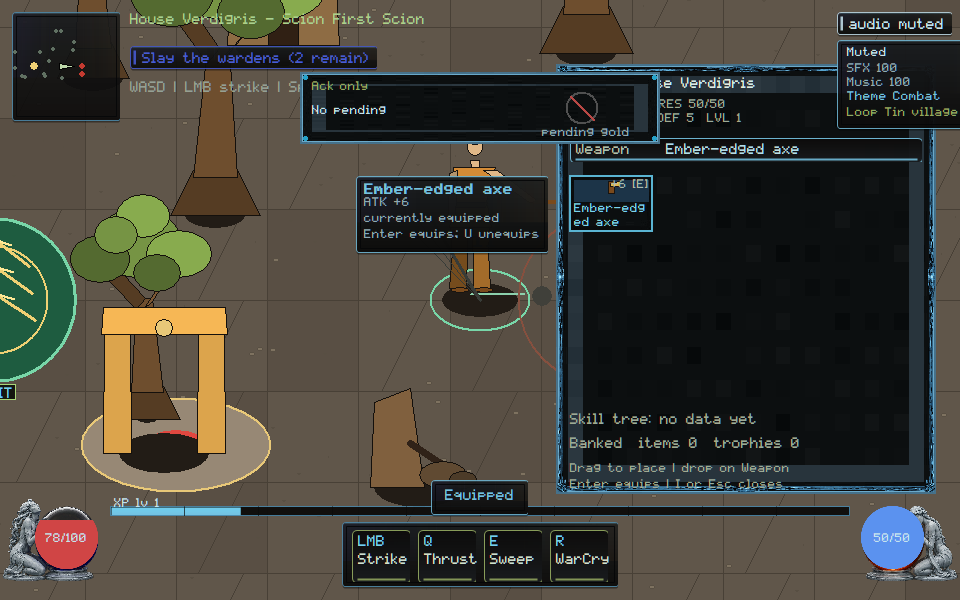
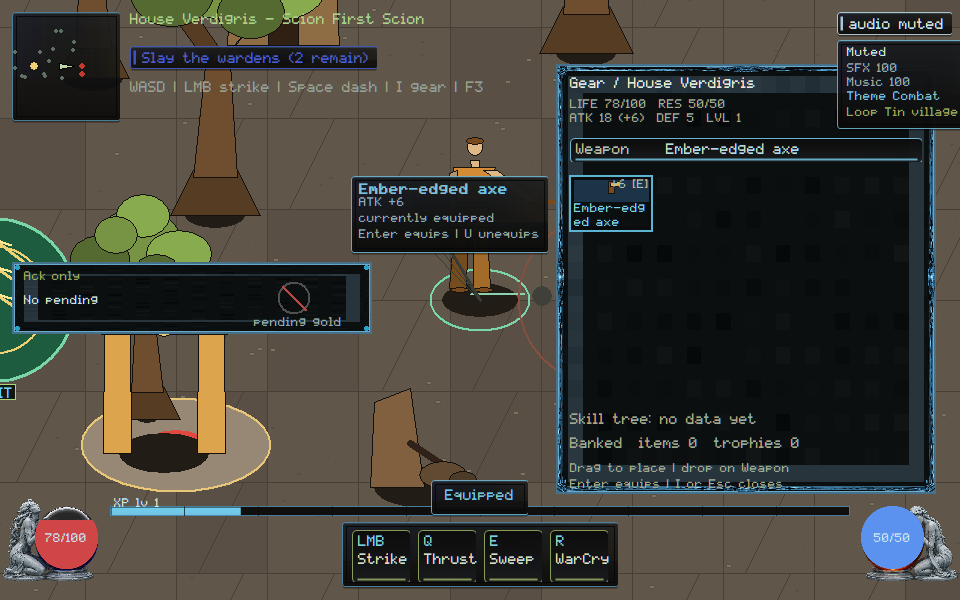
native: park Pack place off WASD and LIFE so covering the production HUD cannot certify

Changed region(s): [[0.0, 0.3, 0.5312, 0.57], [0.3125, 0.12, 0.6875, 0.24]]

diff --git a/native/client/main.cpp b/native/client/main.cpp
@@ -4316,7 +4316,11 @@ void paint_gear_overlay(ClientState& state, HDC dc, const RECT& bounds,
       else
         facts.push_back("same ATK as equipped");
     }
-    facts.push_back("Enter equips; U unequips");
+    const char* compare_hint =
+        verdigris::client::ui::owner_compare_equip_hint();
+    facts.push_back(compare_hint);
+    rl.push_back({render::Op::Hud, 0.0, 0.0, 0.0, 0,
+                  std::string("compare-hint:") + compare_hint});
     paint_compare_plate(state, dc, hover_cx + cell_w, hover_cy, bounds, pane,
                         focus.name,
                         as_equipped ? skin::kGold : skin::kInk, facts, rl);
@@ -7748,14 +7752,53 @@ void paint_pane_focus_review_strip(ClientState& state, HDC dc, const RECT& bound
   SelectObject(dc, old_font);
 }
 
+HudRect park_review_strip(const ClientState& state, int width, int height,
+                          int pane_w, int pane_h) {
+  const HudRect map = minimap_rect(height);
+  const HudRect gear = gear_pane_rect(width, height);
+  int left = map.x;
+  int top = map.y + map.h + kTopHudGap;
+  HudRect strip{left, top, pane_w, pane_h};
+  const char* keep[] = {"identity",         "objective",
+                        "controls",         "controls-second",
+                        "pane-title",       "pane-stats",
+                        "pane-stats-combat", "pane-footer",
+                        "compare-plate"};
+  for (int pass = 0; pass < 8; ++pass) {
+    bool moved = false;
+    for (const auto& entry : state.hud_rect_trace) {
+      bool named = false;
+      for (const char* key : keep)
+        if (entry.first == key) named = true;
+      if (!named) continue;
+      if (!hud_rects_overlap(strip, entry.second)) continue;
+      top = std::max(top, entry.second.y + entry.second.h + kTopHudGap);
+      strip.y = top;
+      moved = true;
+    }
+    if (gear.w > 0 && hud_rects_overlap(strip, gear)) {
+      left = std::max(8, gear.x - pane_w - kTopHudGap);
+      strip.x = left;
+      moved = true;
+    }
+    if (!moved) break;
+  }
+  if (strip.y + strip.h > height - 8) strip.y = std::max(8, height - strip.h - 8);
+  return strip;
+}
+
 void paint_pack_drag_review_strip(ClientState& state, HDC dc, const RECT& bounds,
                                   render::List& rl) {
   if (!state.pack_drag_review_strip) return;
   const int s = hud_scale(static_cast<int>(bounds.bottom));
   const int pane_w = 360 * s;
   const int pane_h = 72 * s;
-  const int left = (static_cast<int>(bounds.right) - pane_w) / 2;
-  const int top = 72 * s;
+  const HudRect parked =
+      park_review_strip(state, static_cast<int>(bounds.right),
+                        static_cast<int>(bounds.bottom), pane_w, pane_h);
+  const int left = parked.x;
+  const int top = parked.y;
+  state.hud_rect_trace.push_back({"pack-drag-strip", parked});
   RECT pane{left, top, left + pane_w, top + pane_h};
   if (!draw_framekit_nine(state.billboards, dc, state.billboards.fk_panel, pane))
     skin::panel(dc, pane, skin::kVerdigris, 235, 8.0f);
@@ -7949,8 +7992,12 @@ void paint_equipment_review_strip(ClientState& state, HDC dc, const RECT& bounds
   const int s = hud_scale(static_cast<int>(bounds.bottom));
   const int pane_w = 360 * s;
   const int pane_h = 72 * s;
-  const int left = (static_cast<int>(bounds.right) - pane_w) / 2;
-  const int top = 72 * s;
+  const HudRect parked =
+      park_review_strip(state, static_cast<int>(bounds.right),
+                        static_cast<int>(bounds.bottom), pane_w, pane_h);
+  const int left = parked.x;
+  const int top = parked.y;
+  state.hud_rect_trace.push_back({"equipment-strip", parked});
   RECT pane{left, top, left + pane_w, top + pane_h};
   if (!draw_framekit_nine(state.billboards, dc, state.billboards.fk_panel, pane))
     skin::panel(dc, pane, skin::kVerdigris, 235, 8.0f);
@@ -14897,6 +14944,44 @@ int scenario_equipment() {
       "equipment: pack cells wrap Ember-edged axe instead of clipping");
   scenario_check(eq_named_full,
                  "equipment: live HUD names the full pack caption");
+  {
+    const HudRect* strip = trace_find(state, "equipment-strip");
+    const HudRect* ctrl = trace_find(state, "controls");
+    const HudRect* gear_vitals = trace_find(state, "pane-stats");
+    const HudRect* gear_combat = trace_find(state, "pane-stats-combat");
+    const bool strip_covers_controls =
+        strip && ctrl && hud_rects_overlap(*strip, *ctrl);
+    const bool strip_covers_stats =
+        strip && gear_vitals && hud_rects_overlap(*strip, *gear_vitals);
+    const bool strip_covers_combat =
+        strip && gear_combat && hud_rects_overlap(*strip, *gear_combat);
+    bool semicolon = false;
+    bool owner_hint = false;
+    for (const auto& item : state.render_list) {
+      if (item.op != render::Op::Hud) continue;
+      if (item.label.rfind("compare-hint:", 0) == 0) {
+        if (item.label.find(';') != std::string::npos) semicolon = true;
+        if (item.label.find(verdigris::client::ui::owner_compare_equip_hint()) !=
+            std::string::npos)
+          owner_hint = true;
+      }
+    }
+    scenario_check(
+        verdigris::client::ui::review_strip_covers_hud_fails_review(true),
+        "equipment: covering WASD or LIFE with the review strip is the anti-pattern");
+    scenario_check(
+        !verdigris::client::ui::review_strip_covers_hud_fails_review(
+            strip_covers_controls || strip_covers_stats || strip_covers_combat),
+        "equipment: Ack only stays off WASD and gear LIFE/ATK");
+    scenario_check(
+        verdigris::client::ui::semicolon_compare_hint_fails_review(true),
+        "equipment: a semicolon compare hint is the anti-pattern");
+    scenario_check(
+        !verdigris::client::ui::semicolon_compare_hint_fails_review(semicolon),
+        "equipment: compare hint uses Enter equips | U unequips");
+    scenario_check(owner_hint,
+                   "equipment: live HUD names the ASCII compare hint");
+  }
   return scenario_failures;
 }
 
@@ -16907,6 +16992,50 @@ int scenario_pack_drag() {
   scenario_check(pack_place && reject_keeps,
                  "pack-drag: live HUD names Pack place and Reject keeps");
   scenario_check(silent_equip, "pack-drag: live HUD rejects silent equip");
+  {
+    auto trace_find = [](const ClientState& s,
+                         const char* label) -> const HudRect* {
+      for (const auto& entry : s.hud_rect_trace)
+        if (entry.first == label) return &entry.second;
+      return nullptr;
+    };
+    const HudRect* strip = trace_find(state, "pack-drag-strip");
+    const HudRect* controls = trace_find(state, "controls");
+    const HudRect* stats = trace_find(state, "pane-stats");
+    const HudRect* combat = trace_find(state, "pane-stats-combat");
+    const bool covers_controls =
+        strip && controls && hud_rects_overlap(*strip, *controls);
+    const bool covers_stats =
+        strip && stats && hud_rects_overlap(*strip, *stats);
+    const bool covers_combat =
+        strip && combat && hud_rects_overlap(*strip, *combat);
+    bool semicolon = false;
+    bool owner_hint = false;
+    for (const auto& item : state.render_list) {
+      if (item.op != render::Op::Hud) continue;
+      if (item.label.rfind("compare-hint:", 0) == 0) {
+        if (item.label.find(';') != std::string::npos) semicolon = true;
+        if (item.label.find(verdigris::client::ui::owner_compare_equip_hint()) !=
+            std::string::npos)
+          owner_hint = true;
+      }
+    }
+    scenario_check(
+        verdigris::client::ui::review_strip_covers_hud_fails_review(true),
+        "pack-drag: covering WASD or LIFE with the review strip is the anti-pattern");
+    scenario_check(
+        !verdigris::client::ui::review_strip_covers_hud_fails_review(
+            covers_controls || covers_stats || covers_combat),
+        "pack-drag: Pack place stays off WASD and gear LIFE/ATK");
+    scenario_check(
+        verdigris::client::ui::semicolon_compare_hint_fails_review(true),
+        "pack-drag: a semicolon compare hint is the anti-pattern");
+    scenario_check(
+        !verdigris::client::ui::semicolon_compare_hint_fails_review(semicolon),
+        "pack-drag: compare hint uses Enter equips | U unequips");
+    scenario_check(owner_hint,
+                   "pack-drag: live HUD names the ASCII compare hint");
+  }
   return scenario_failures;
 }
 

diff --git a/native/client/ui/integrate-equipment-and-comparison.hpp b/native/client/ui/integrate-equipment-and-comparison.hpp
@@ -69,6 +69,9 @@ inline const char* owner_no_pending_label() { return "No pending"; }
 inline const char* owner_skill_tree_label() { return "Skill tree"; }
 inline const char* owner_no_data_yet_label() { return "No data yet"; }
 inline const char* owner_no_seats_yet_label() { return "No seats yet"; }
+inline const char* owner_compare_equip_hint() {
+  return "Enter equips | U unequips";
+}
 
 inline bool invented_origin_fails_review(bool present, bool painted_seat) {
   return !present && painted_seat;
@@ -76,6 +79,10 @@ inline bool invented_origin_fails_review(bool present, bool painted_seat) {
 
 inline bool compare_covers_gear_stats_fails_review(bool overlap) {
   return overlap;
+}
+
+inline bool semicolon_compare_hint_fails_review(bool semicolon) {
+  return semicolon;
 }
 
 }  // namespace verdigris::client::ui

diff --git a/native/client/ui/validate-scalable-ui-and-non-color-cues.hpp b/native/client/ui/validate-scalable-ui-and-non-color-cues.hpp
@@ -28,4 +28,6 @@ inline bool clipped_gear_stats_fails_review(bool inside) { return !inside; }
 
 inline bool missing_gear_def_fails_review(bool present) { return !present; }
 
+inline bool review_strip_covers_hud_fails_review(bool overlap) { return overlap; }
+
 }  // namespace verdigris::client::ui

diff --git a/docs/execution/CROSSWALK.md b/docs/execution/CROSSWALK.md
@@ -34,8 +34,8 @@ Cursor evidence notes.
 | VG | Disposition | Existing |
 |---|---|---|
 | VG-UI-001 | extend | native Escape stack (`pane-stack`); owner Stack 2 / Escape closes; absent tree hides seats; invented origin cannot pass; WASD cannot overlay the open tree; C or Esc closes stays in the sheet slot |
-| VG-UI-002 | extend | TASK-0171 INTEGRATED, 0184 BRIDGE_PREP; `pack-drag`; reject cannot lose/duplicate/silent-equip; pack cells wrap Ember-edged axe; a period clip cannot certify; gear footer stays inside the pane |
-| VG-UI-003 | extend | paper-doll + ack-only HUD (`equipment`); pending compare cannot gold-frame as equipped; compare plate stays off gear DEF/LVL; `progression-surface` owner Skill tree / No data yet (TASK folder cannot certify) |
+| VG-UI-002 | extend | TASK-0171 INTEGRATED, 0184 BRIDGE_PREP; `pack-drag`; reject cannot lose/duplicate/silent-equip; pack cells wrap Ember-edged axe; Pack place stays off WASD/LIFE; compare hint uses ASCII `|`; gear footer stays inside the pane |
+| VG-UI-003 | extend | paper-doll + ack-only HUD (`equipment`); pending compare cannot gold-frame as equipped; compare plate stays off gear DEF/LVL; Ack only stays off WASD/LIFE; compare hint uses ASCII `|`; `progression-surface` owner Skill tree / No data yet (TASK folder cannot certify) |
 | VG-UI-004 | extend | TASK-0156, 0159 INTEGRATED; `stat-explain` expandable ATK; dormant cannot fold into Attack; compact Sources uses Base/Gear; lowercase base/gear cannot certify; WASD stays off the C-key sheet; close hint stays in the slot |
 | VG-UI-005 | extend | TASK-0076 INTEGRATED; 0178/0192/0203 Owner Demo; `route-map` zoom/opacity cannot reveal off-snapshot targets |
 | VG-UI-006 | extend | TASK-0145/0177 + 0190/0197/0201 — **do not duplicate** |
@@ -251,7 +251,9 @@ jargon cannot certify. Scenario `progression-surface` pack capture in
 art-wave (TASK-0156 folder cannot certify). Absent P-key tree hides
 seats (`tree-pane-960x600.png`, shared with VG-UI-001) and keeps WASD
 off the pane. Gear footer I or Esc closes stays inside the pane. Compare
-plate parks left of the pane; covering DEF/LVL cannot certify. Evidence
+plate parks left of the pane; covering DEF/LVL cannot certify. Ack only
+parks off WASD and gear LIFE/ATK. Compare hint is Enter equips |
+U unequips. Evidence
 `docs/execution/evidence/VG-UI-003.json`.
 VG-PERF-007: 32 resize/effect cycles; floor bitmaps stay 1. Owner strip
 paints 32 cycles / Cap holds. Short scene cannot certify. Scenario
@@ -363,10 +365,12 @@ Life. The close hint stays in the slot. Scenario
 `stat-explain`. Evidence
 `docs/execution/evidence/VG-UI-004.json`.
 VG-UI-002: `pack-drag` — reject cannot lose, duplicate, or silently equip.
-Owner strip paints Pack place / Reject keeps. Silent equip cannot
-certify. Pack cells wrap Ember-edged axe at the type floor; a 12-char
-period clip cannot certify. Gear footer I or Esc closes stays inside the
-pane. Core inventory-move stays Kimi.
+Owner strip paints Pack place / Reject keeps and parks below the minimap,
+left of the gear pane. Covering WASD or LIFE cannot certify. Silent equip
+cannot certify. Pack cells wrap Ember-edged axe at the type floor; a
+12-char period clip cannot certify. Compare hint is Enter equips |
+U unequips. Gear footer I or Esc closes stays inside the pane. Core
+inventory-move stays Kimi.
 VG-ART-005: `held-item` — world actor hold must change on equip. Owner
 strip paints World hold / Ack equip. `loot-to-bank` owner strip paints
 Unarmed first / World hold. A filled paper-doll seat with `held:none`

diff --git a/docs/execution/CROSSWALK_REGISTRY.md b/docs/execution/CROSSWALK_REGISTRY.md
@@ -136,8 +136,8 @@ not implemented here.
 | VG-ART-007 | G3 | extend | Owner Demo — do not duplicate |
 | VG-ART-008 | G3 | extend | Owner Demo — do not duplicate |
 | VG-UI-001 | G1 | extend | pane-stack native Escape; absent tree hides seats; invented origin cannot prove; WASD keep-out for tree and character; close hint stays in the sheet slot |
-| VG-UI-002 | G2 | extend | pack-drag occupancy; reject cannot lose/duplicate/silent-equip; period-clipped pack name cannot certify; sim inventory-move stays Kimi |
-| VG-UI-003 | G2 | extend | equipment ack-only; compare plate left of gear stats; progression-surface Skill tree / No data yet; absent tree pane hides seats; WASD keep-out |
+| VG-UI-002 | G2 | extend | pack-drag occupancy; reject cannot lose/duplicate/silent-equip; period-clipped pack name cannot certify; Pack place stays off WASD/LIFE; sim inventory-move stays Kimi |
+| VG-UI-003 | G2 | extend | equipment ack-only; compare plate left of gear stats; Ack only stays off WASD/LIFE; compare hint ASCII bar; progression-surface Skill tree / No data yet; absent tree pane hides seats; WASD keep-out |
 | VG-UI-004 | G2 | extend | stat-explain owner Base/Gear labels; compact Sources uses Base/Gear; lowercase cannot certify; dormant cannot fold into Attack; WASD off C-key sheet; close hint stays in the slot |
 | VG-UI-005 | G3 | extend | route-map zoom/opacity; off-snapshot blip cannot pass; Owner Demo journeys not reimplemented |
 | VG-UI-006 | G2 | extend | Owner Demo — do not duplicate |

diff --git a/orchestration/CURSOR_KIMI_LANES.md b/orchestration/CURSOR_KIMI_LANES.md
@@ -981,3 +981,13 @@ Please move off that branch before taking a new native path.
 - **Stay off** `native/client/main.cpp` and `docs/execution/**`. SEC/CORE
   remain yours. GOV-002 still unstamped.
 
+## Cursor reply (2026-09-06, Pack place off WASD and LIFE)
+
+- **Lease:** `main.cpp` still **ACTIVE**. `remote_session.cpp` stays
+  **RELEASED**. Do not re-spec TASK-0108 core/wire (`3b929637`).
+- **Landed this push:** VG-UI-002/003/007 — Pack place and Ack only park
+  off WASD and gear LIFE; semicolon compare hint rejected. ITEM algebra
+  stays yours. Captures viewed. Not Owner Demo.
+- **Stay off** `native/client/main.cpp` and `docs/execution/**`. SEC/CORE
+  remain yours. GOV-002 still unstamped.
+

diff --git a/docs/rebuild/HANDOFF.md b/docs/rebuild/HANDOFF.md
@@ -1,5 +1,15 @@
 # Native reconstitution handoff
 
+## 2026-09-06 — Pack place off WASD and LIFE (Cursor)
+
+- VG-UI-002 / VG-UI-003 / VG-UI-007: Pack place and Ack only park below
+  the minimap, left of the I-key pane. Covering WASD or gear LIFE/ATK
+  cannot certify. Compare hint is Enter equips | U unequips; a semicolon
+  cannot certify. Pack wrap, reject occupancy, and compare-plate keep-out
+  are unchanged. Core inventory-move stays Kimi.
+- Scenarios `pack-drag` / `equipment` / `loot-to-bank` PASS. Captures
+  viewed. Not Owner Demo. Not TASK-0108.
+
 ## 2026-09-06 — Pack cells wrap Ember-edged axe (Cursor)
 
 - VG-UI-002 / VG-UI-003: pack cell captions wrap at the type floor so
